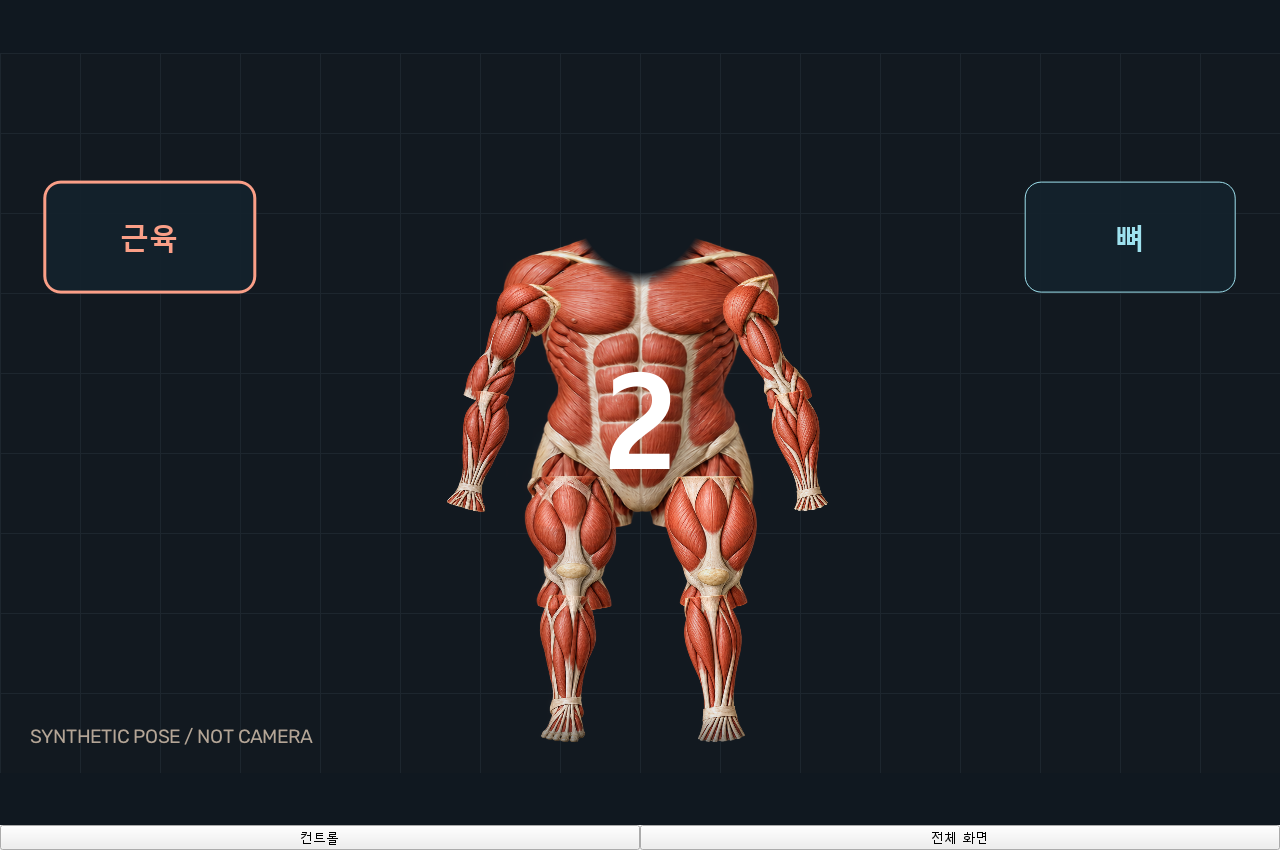
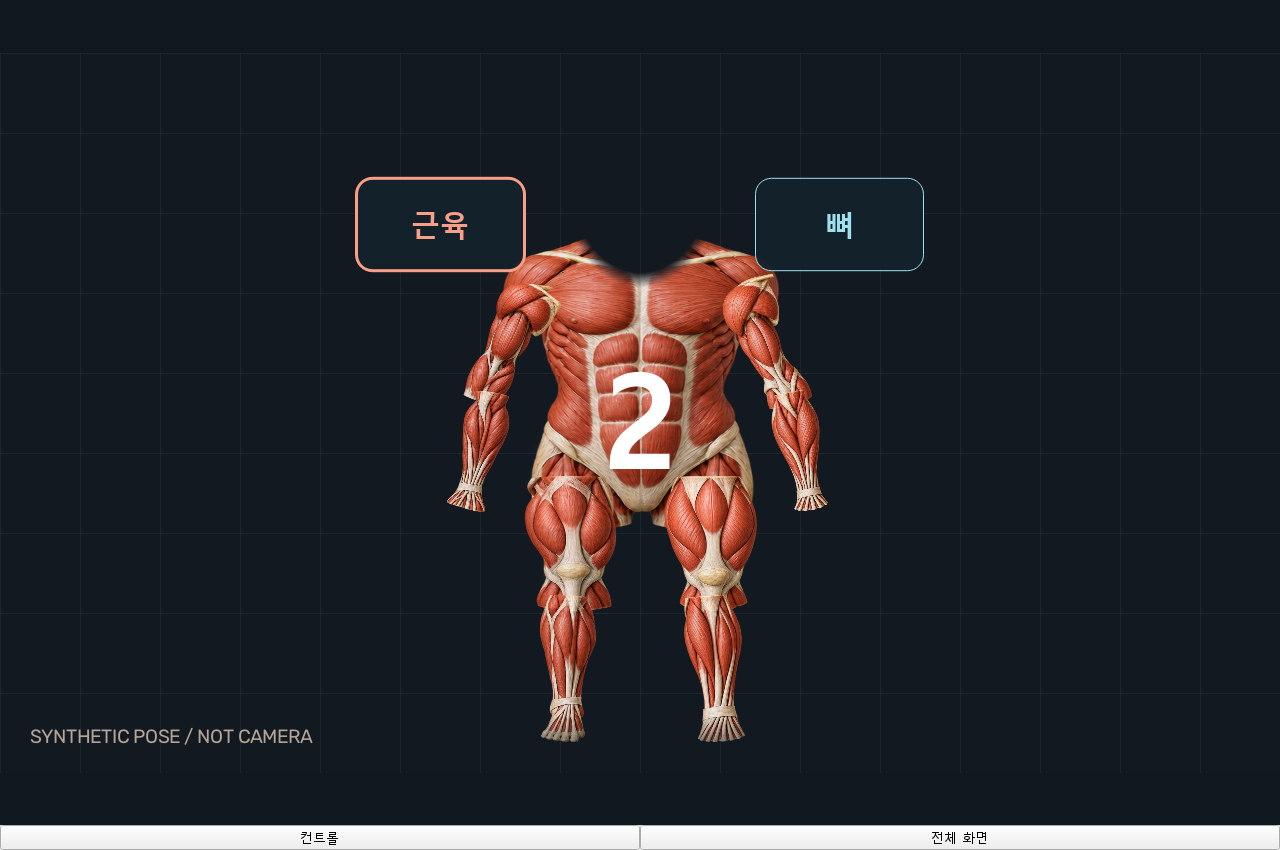
Keep mode selectors reachable at a distance

diff --git a/tests/test_hand_selection.py b/tests/test_hand_selection.py
@@ -80,3 +80,103 @@ def test_hand_hits_the_visible_button_with_mirror_and_fit(monkeypatch,mirror,fit
     QTest.mouseClick(view,Qt.MouseButton.LeftButton,pos=view.mode_rects()["muscles"].center().toPoint())
     assert state.snapshot()[0].mode=="muscles"
     view.close()
+
+
+def test_brief_tracking_loss_preserves_dwell_but_leaving_cancels():
+    selector=DwellSelector()
+    hit=[("left","bones")]
+    for t in range(1000,1400,100):
+        selector.update(hit,t,t,200,"muscles")
+    selector.update([],1400,1400,200,"muscles",tracking_lost=True)
+    assert selector.progress>0
+    for t in range(1500,1800,100):
+        assert selector.update(hit,t,t,200,"muscles") is None
+    assert selector.update(hit,1800,1800,200,"muscles")=="bones"
+    selector.reset()
+    selector.update(hit,2000,2000,200,"muscles")
+    selector.update([],2200,2200,200,"muscles",tracking_lost=True)
+    assert selector.target is None
+    selector.update(hit,2300,2300,200,"muscles")
+    selector.update([],2400,2400,200,"muscles")
+    assert selector.target is None
+
+
+@pytest.mark.parametrize("mirror",[False,True])
+@pytest.mark.parametrize("fit",["fit","fill"])
+@pytest.mark.parametrize("size",[(1280,850),(900,850),(500,900)])
+@pytest.mark.parametrize("body_scale",[.35,.6,1.8])
+def test_body_relative_buttons_are_visible_and_selectable(monkeypatch,mirror,fit,size,body_scale):
+    from test_core import person
+    app=QApplication.instance() or QApplication([])
+    state=AppState(replace(Settings(),mirror=mirror,fit=fit))
+    view=VideoView(state)
+    view.resize(*size)
+    image=owned_image(np.zeros((720,1280,3),np.uint8))
+    points=person()
+    points[:,:2]=(points[:,:2]-[640,240])*body_scale+[640,240]
+    points[15:23,3:]=0
+    view.present(image,points=points)
+    rects=view.mode_rects()
+    assert not rects["bones"].intersects(rects["muscles"])
+    for rect in rects.values():
+        assert rect.left()>=0 and rect.right()<=view.width()
+        assert rect.top()>=0 and rect.bottom()<=view.height()
+    w,h,scale,ox,oy=view.image_geometry()
+    if body_scale==.35 and size==(1280,850):
+        assert abs(rects["bones"].center().x()-640)<100
+    center=rects["bones"].center()
+    x=(center.x()-ox)/scale
+    points[15]=[w-1-x if mirror else x,(center.y()-oy)/scale,0,1,1]
+    clock=[1000]
+    monkeypatch.setattr(exhibition_window,"now_ms",lambda:clock[0])
+    try:
+        for t in range(1000,1900,100):
+            clock[0]=t
+            view.present(image,points=points,timestamp_ms=t)
+        assert state.snapshot()[0].mode=="bones"
+    finally:
+        view.close()
+
+
+@pytest.mark.parametrize("hold_composite",[False,True])
+def test_delayed_packets_and_brief_overlay_loss_allow_mode_selection(monkeypatch,hold_composite):
+    from src.app import Controller
+    from src import app as app_module
+    from src.core.packets import PosePacket,RenderPacket
+    from src.core.state import Status
+    from test_core import frame,person
+    app=QApplication.instance() or QApplication([])
+    state=AppState()
+    controller=Controller(app,state)
+    controller.timer.stop()
+    controller.stats_timer.stop()
+    view=controller.control.preview
+    view.resize(1280,850)
+    rgb=np.full((720,1280,3),80,np.uint8)
+    points=person()
+    points[:,:2]=(points[:,:2]-[640,240])*.4+[640,240]
+    points[15:23,3:]=0
+    view.present(owned_image(rgb),points=points)
+    center=view.mode_rects()["bones"].center()
+    w,h,scale,ox,oy=view.image_geometry()
+    x=(center.x()-ox)/scale
+    points[15]=[w-1-x,(center.y()-oy)/scale,0,1,1]
+    clock=[1000]
+    monkeypatch.setattr(app_module,"now_ms",lambda:clock[0])
+    monkeypatch.setattr(exhibition_window,"now_ms",lambda:clock[0])
+    try:
+        for received in range(1000,1900,100):
+            clock[0]=received
+            captured=received-130
+            f=frame(fid=received,ts=captured,generation=controller.generation)
+            pose=PosePacket(received,captured,controller.generation,points,50,())
+            status=Status.WAITING_PERSON if hold_composite and received in (1300,1600) else Status.TRACKING
+            controller.output.put(RenderPacket(f,pose,rgb,(),status,"",state.snapshot()[1]))
+            controller.tick()
+            for delta in (30,60,90):
+                clock[0]=received+delta
+                controller.tick()
+        assert state.snapshot()[0].mode=="bones"
+    finally:
+        controller.control.allow_close=True
+        controller.control.close()

diff --git a/scripts/preview_ui.py b/scripts/preview_ui.py
@@ -32,13 +32,13 @@ def main():
     for mode in ("muscles","bones"):
         state.update(mode=mode)
         rgb,labels,_,_=compositor.render(backdrop(),synthetic_pose(),state.snapshot()[0])
-        view.present(owned_image(rgb),labels,message="가상 좌표 검증 화면 · 카메라 영상 아님")
+        view.present(owned_image(rgb),labels,points=synthetic_pose(),message="가상 좌표 검증 화면 · 카메라 영상 아님")
         app.processEvents()
         assert controller.control.grab().save(str(folder/f"unified-{mode}.png"))
     state.update(mode="muscles")
     rgb,labels,_,_=compositor.render(backdrop(),synthetic_pose(),state.snapshot()[0])
     image=owned_image(rgb)
-    view.present(image)
+    view.present(image,points=synthetic_pose())
     w,h,scale,ox,oy=view.image_geometry()
     center=view.mode_rects()["bones"].center()
     points=synthetic_pose()
@@ -56,7 +56,7 @@ def main():
     finally:
         exhibition_window.now_ms=old_clock
     rgb,labels,_,_=compositor.render(backdrop(),synthetic_pose(),state.snapshot()[0])
-    view.present(owned_image(rgb),labels,message="가상 좌표 검증 화면 · 카메라 영상 아님")
+    view.present(owned_image(rgb),labels,points=synthetic_pose(),message="가상 좌표 검증 화면 · 카메라 영상 아님")
     controller.control.settings_dock.show()
     app.processEvents()
     assert controller.control.grab().save(str(folder/"unified-settings.png"))
@@ -70,7 +70,7 @@ def main():
     for mode in ("muscles","bones"):
         state.update(mode=mode)
         rgb,labels,_,_=compositor.render(bg,points,state.snapshot()[0])
-        view.present(owned_image(rgb),labels,message="상체 체험 · 얼굴 보존 / 아래쪽 페이드 · 가상 좌표")
+        view.present(owned_image(rgb),labels,points=points,message="상체 체험 · 얼굴 보존 / 아래쪽 페이드 · 가상 좌표")
         app.processEvents()
         assert controller.control.grab().save(str(folder/f"closeup-{mode}.png"))
     points=synthetic_pose()
@@ -79,10 +79,16 @@ def main():
     for mode in ("muscles","bones"):
         state.update(mode=mode)
         rgb,labels,_,_=compositor.render(backdrop(),points,state.snapshot()[0])
-        view.present(owned_image(rgb),labels,message="양팔 교차 · 팔 표시 유지 · 가상 좌표")
+        view.present(owned_image(rgb),labels,points=points,message="양팔 교차 · 팔 표시 유지 · 가상 좌표")
         app.processEvents()
         assert controller.control.grab().save(str(folder/f"crossed-arms-{mode}.png"))
     state.update(mode="muscles")
+    points=synthetic_pose()
+    points[:,:2]=(points[:,:2]-[640,240])*.35+[640,240]
+    rgb,labels,_,_=compositor.render(backdrop(),points,state.snapshot()[0])
+    view.present(owned_image(rgb),labels,points=points)
+    app.processEvents()
+    assert controller.control.grab().save(str(folder/"distant-selection.png"))
     bg=backdrop()
     points=synthetic_pose()
     rgb,labels,_,_=compositor.render(bg,points,state.snapshot()[0])

diff --git a/src/ui/exhibition_window.py b/src/ui/exhibition_window.py
@@ -4,6 +4,7 @@ from PySide6.QtWidgets import QWidget
 from ..rendering.coordinates import display_transform,mirror_x
 from ..core.packets import now_ms
 from .hand_selector import DwellSelector,palm_points
+from ..rendering.anatomy_mapper import valid
 
 def owned_image(rgb):
     h,w = rgb.shape[:2]
@@ -39,6 +40,7 @@ class VideoView(QWidget):
         self.selector=DwellSelector()
         self.hand_cursors=[]
         self.pose_timestamp=None
+        self.pose_received=None
         self.interaction_geometry=None
         self.frozen=False
         self.frozen_settings=None
@@ -81,6 +83,22 @@ class VideoView(QWidget):
         if geometry:
             w,h,scale,ox,oy=geometry
             area=area.intersected(QRectF(ox,oy,w*scale,h*scale))
+            s=self.frozen_settings or self.state.snapshot()[0]
+            if area.width()>=224 and self.points is not None and valid(self.points,(11,12),w,h,s.confidence):
+                shoulders=self.points[[11,12],:2]
+                center=shoulders.mean(axis=0)
+                span=float(((shoulders[0]-shoulders[1])**2).sum()**.5)*scale
+                if span>=20:
+                    margin=8
+                    bw=min(210,max(96,span*.8))
+                    bw=min(bw,(area.width()-3*margin)/2)
+                    bh=max(65,min(110,bw*.55))
+                    offset=min(max(span*.95,bw*.65+8),(area.width()-bw)/2-margin)
+                    cx=(mirror_x(center[0],w) if s.mirror else center[0])*scale+ox
+                    cx=min(max(cx,area.left()+margin+bw/2+offset),area.right()-margin-bw/2-offset)
+                    cy=min(max(center[1]*scale+oy-span*.3,area.top()+bh/2+8),area.bottom()-bh/2-8)
+                    return {"muscles":QRectF(cx-offset-bw/2,cy-bh/2,bw,bh),
+                            "bones":QRectF(cx+offset-bw/2,cy-bh/2,bw,bh)}
         bw=max(96,min(210,area.width()*.22))
         bh=max(65,min(110,area.height()*.22))
         margin=max(8,area.width()*.035)
@@ -92,6 +110,7 @@ class VideoView(QWidget):
         self.selector.reset()
         self.hand_cursors=[]
         self.pose_timestamp=None
+        self.pose_received=None
         self.update()
 
     def update_hands(self,now):
@@ -107,6 +126,8 @@ class VideoView(QWidget):
             self.clear_hands()
             return
         w,h,scale,ox,oy=geometry
+        if self.pose_timestamp!=self.selector.last:
+            self.pose_received=now
         cursors=[]
         hits=[]
         rectangles=self.mode_rects()
@@ -116,7 +137,7 @@ class VideoView(QWidget):
             for mode,rect in rectangles.items():
                 if rect.contains(pos): hits.append((hand,mode))
         self.hand_cursors=cursors
-        chosen=self.selector.update(hits,self.pose_timestamp,now,s.max_age_ms,s.mode)
+        chosen=self.selector.update(hits,self.pose_timestamp,now,s.max_age_ms,s.mode,tracking_lost=not cursors)
         if chosen: self.state.update(mode=chosen)
         self.update()
 

diff --git a/src/app.py b/src/app.py
@@ -191,7 +191,7 @@ class Controller(QObject):
             self.photo_packet=None
             view.countdown=None
             view.update()
-        if view.pose_timestamp is not None and (settings.standby or now-view.pose_timestamp>settings.max_age_ms):
+        if view.pose_received is not None and (settings.standby or now-view.pose_received>settings.max_age_ms):
             view.clear_hands()
         current = self.current
         if current and now-current.frame.timestamp_ms<=settings.max_age_ms and current.version==version:
@@ -213,7 +213,8 @@ class Controller(QObject):
                                 and (0<=now-previous.frame.timestamp_ms<=500
                                      or self.countdown.started is not None and self.photo_packet is previous))
                 if keep_composite:
-                    view.clear_hands()
+                    view.present(view.image,view.labels,current.pose.landmarks,current.message,current.pose.timestamp_ms,
+                                 interactive=not hands and self.countdown.started is None)
                 else:
                     view.present(image,current.labels,current.pose.landmarks,current.message,current.pose.timestamp_ms,
                                  interactive=not hands and self.countdown.started is None)

diff --git a/src/ui/hand_selector.py b/src/ui/hand_selector.py
@@ -27,10 +27,11 @@ class DwellSelector:
         self.target=None
         self.since=None
         self.last=None
+        self.last_hit=None
         self.progress=0.0
         self.latched=False
 
-    def update(self, hits, timestamp, now, max_age, selected):
+    def update(self, hits, timestamp, now, max_age, selected, tracking_lost=False):
         if timestamp is None or not 0<=now-timestamp<=max_age:
             self.reset()
             return None
@@ -40,7 +41,10 @@ class DwellSelector:
             self.reset()
         self.last=timestamp
         if not hits:
+            if tracking_lost and self.last_hit is not None and timestamp-self.last_hit<=150:
+                return None
             self.target=self.since=None
+            self.last_hit=None
             self.progress=0.0
             self.latched=False
             return None
@@ -53,6 +57,7 @@ class DwellSelector:
         target=self.target if self.target in hits else sorted(hits)[0]
         if target!=self.target:
             self.target,self.since=target,timestamp
+        self.last_hit=timestamp
         self.progress=min(1.0,(timestamp-self.since)/self.dwell_ms)
         if self.progress>=1:
             self.latched=True

diff --git a/docs/OPERATIONS.md b/docs/OPERATIONS.md
@@ -107,3 +107,7 @@ run_windows.bat --start --quit-after 1800 --metrics-log logs\galaxybook2-soak.js
 segmentation은 기본 꺼져 있습니다. 자산 캐시/변형 비용 → 입력 크기(640→512→384) → 추론 주기 순서로 조정합니다.
 입력 크기는 적용/재시작 버튼을 사용합니다. 변경 전후 동일 장면 시각 품질과 성능을 함께 기록합니다.
 필수 질감·근육/뼈 모드를 제거하거나 불투명도로 결함을 감춰 통과 처리하지 않습니다.
+
+## 멀리서 모드 선택
+
+어깨가 인식되면 근육·뼈 버튼이 어깨 주변으로 이동합니다. 화면 속 손 커서를 원하는 버튼 위에 0.8초 유지하세요. 손을 내리면 선택 진행이 취소됩니다. 작은 인물의 버튼에도 최소 크기를 적용하며, 잠깐 손이 인식되지 않을 때는 150ms까지 진행을 유지합니다. 실제 현장의 조명과 거리에서 어깨·손 인식을 확인하세요.

diff --git a/docs/PROGRESS.md b/docs/PROGRESS.md
@@ -104,3 +104,7 @@ run_windows.bat
 모델 출처/해시 models/manifest.json, 자산 프롬프트 assets/source, 좌우/앵커 assets/anchors/atlas.json.
 settings는 사용자 LOCALAPPDATA 경로. 개발자의 절대 경로를 프로그램에 고정하지 않음.
 실카메라 영상/사진은 기록하지 않았고 성능 수치만 로그로 남김. 제출 이미지/MP4는 가상 좌표뿐임.
+
+## 2026-10-19 멀리서 모드 선택 수정
+
+화면 가장자리 고정 버튼을 어깨 위치·크기에 따른 배치로 변경했습니다. 추론 지연 때문에 선택 진행이 반복 초기화되는 문제를 수신 시각 기준 만료로 수정했습니다. 손 누락 150ms 허용, 합성 유지 중 새 손 좌표 반영을 추가했습니다. 자동 테스트 115개와 가상 화면 검증 통과. 실제 행사 거리에서 인식 확인 필요.
